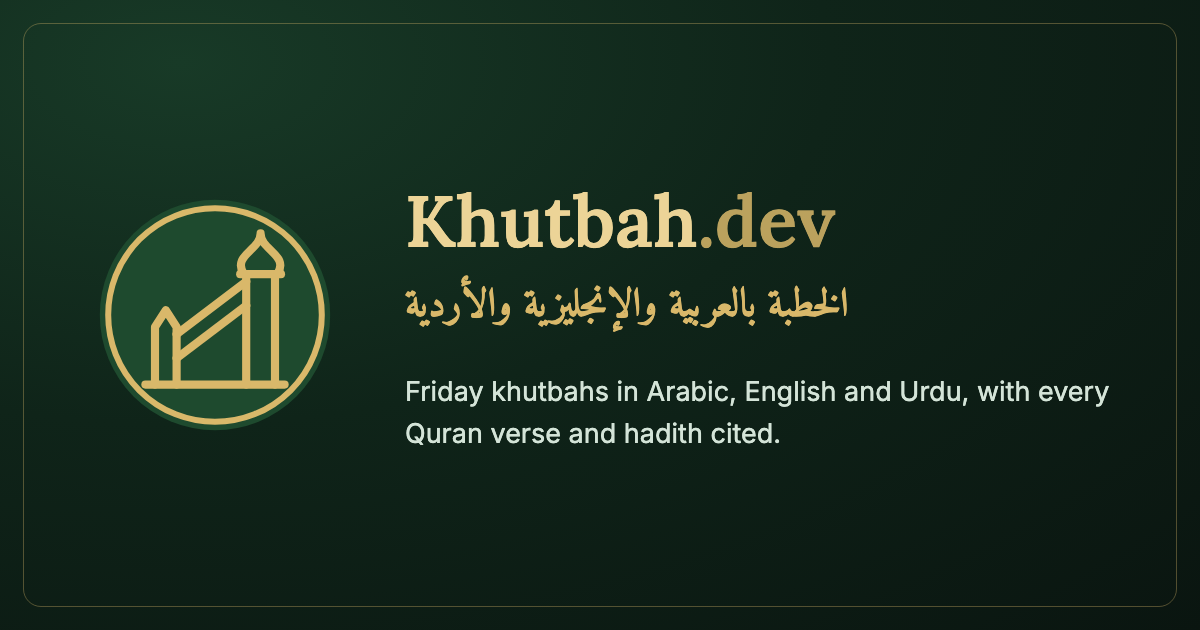
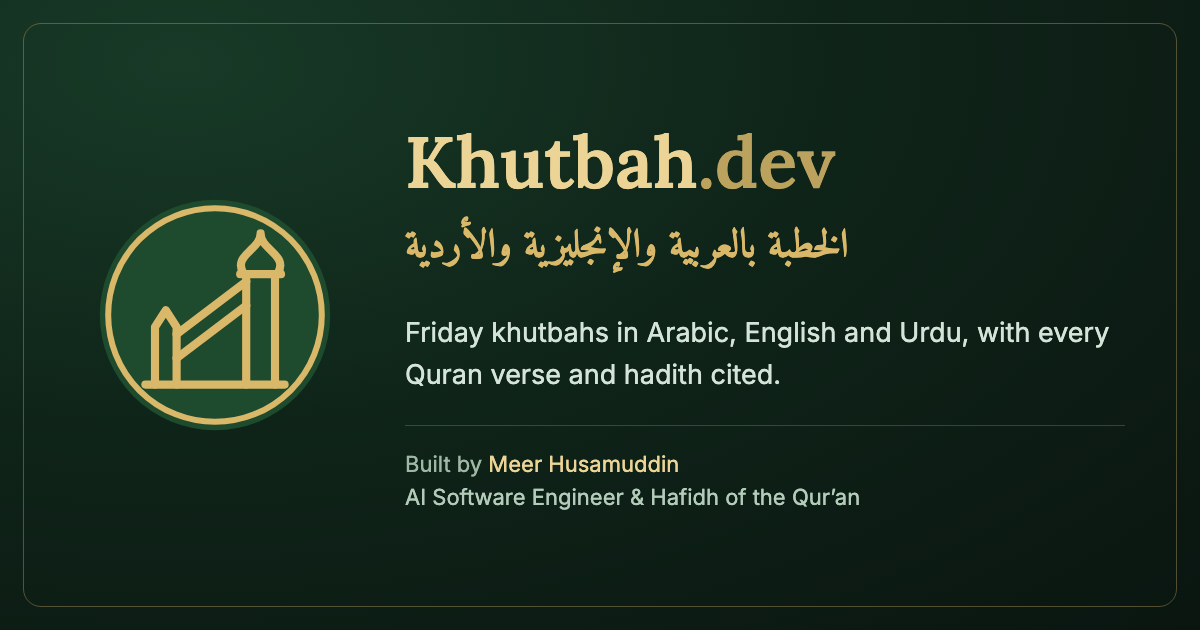
Link preview: built by Meer Husamuddin, AI Software Engineer & Hafidh of the Qur'an; About section uses the same titles

Changed region(s): [[0.3392, 0.2111, 0.925, 0.5429], [0.3392, 0.573, 0.925, 0.8143]]

diff --git a/public/home.html b/public/home.html
@@ -702,7 +702,7 @@
         <div class="dev-initials">MH</div>
         <div class="dev-info">
           <h2 class="dev-name">Meer Husamuddin</h2>
-          <p class="dev-title">Software Engineer · Hafiz of the Quran</p>
+          <p class="dev-title">AI Software Engineer · Hafidh of the Qur’an</p>
           <div class="dev-links">
             <a href="https://www.linkedin.com/in/meerhusam" target="_blank" rel="noopener">LinkedIn</a>
             <span class="dev-link-dot">·</span>
@@ -714,7 +714,7 @@
         I built Khutbah.dev and look after it. Every khutbah here is one I've processed, reviewed, and chosen to publish.
       </p>
       <p class="dev-bio" style="margin-top:14px;">
-        I'm also a hafiz of the Quran, alhamdulillah. Having the Quran memorised is a big part of why the Quranic references here matter to me: when the imam recites a verse, I want every listener to know exactly which verse it is and what it means, in its full context.
+        I'm also a hafidh of the Qur’an, alhamdulillah. Having the Quran memorised is a big part of why the Quranic references here matter to me: when the imam recites a verse, I want every listener to know exactly which verse it is and what it means, in its full context.
       </p>
     </div>
   </div>
